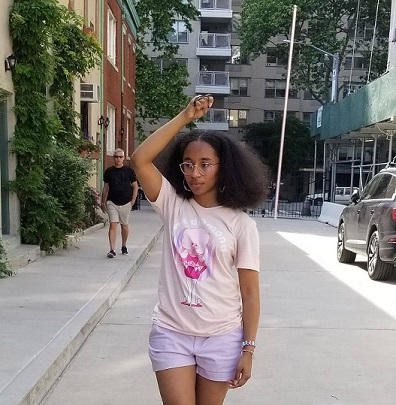
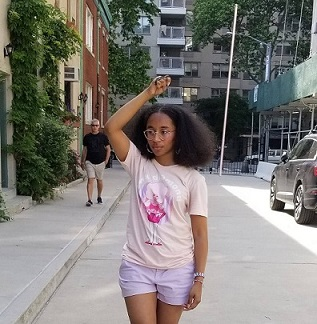
Changes to picture location in all files

diff --git a/css/styles.css b/css/styles.css
@@ -37,8 +37,7 @@ ul {
 	padding-left: 0px;
 }
 
-a {color: #5092C9;
-	margin-bottom: 30px;}
+a {color: #5092C9;}
 
 a:hover {color: #B18FCF;
 	padding: 5px;}

diff --git a/student1.php b/student1.php
@@ -4,12 +4,13 @@
 <header>
 	<div class="header">
 		<h1 class="studentName">Jonathan Roman</h1>
-		<img src="images/jonathan.jpg" alt="jonathan" class="photo">
 	</div>
 </header>
 <?php include "inc/navigation.inc"; ?>
 
 	<div class="contentBlock">
+		
+		<figure><img src="images/jonathan.jpg" alt="jonathan" class="photo"></figure>
 		<h2>Academics</h2>
 		<p>As far as my academic career used to be, I was very into biology in high school. I would attend science competitions and fairs to present research I had begun through a special science research program in my school (which I credit my acceptance to the University of Rochester to). Since I was still a teenager, I had not really explored many fields up to this point and although the idea of biology excited me, I do not believe I was truly passionate about it. I had always been into video games and technology since I was old enough to operate a screen, so it seemed logical that I would like computer science, but my school did not offer anything in the field, so I entered the University of Rochester with a major in biology. Once I arrived at college, I continued with my track for a year or two before I began taking classes in computer science and instantly fell in love with it. I did not realize how much I would truly enjoy the field but I am extremely happy I will end up being able to complete my major within the 4 years even with some extra classes from other fields under my belt.</p>
 	</div>

diff --git a/student2.php b/student2.php
@@ -4,12 +4,14 @@
 <header>
 	<div class="header">
 		<h1 class="studentName">Victoria Bongard</h1>
-		<img src="images/victoria.jpg" alt="victoria" class="photo">
+		
 	</div>
 </header>
 <?php include "inc/navigation.inc"; ?>
-<h2>Study Spaces</h2>
+
 	<div class="contentBlock">
+		<figure><img src="images/victoria.jpg" alt="victoria" class="photo"></figure>
+		<h2>Study Spaces</h2>
 		<p>In terms of my academics at the University of Rochester, I have found my study places to be among that which I consider most important to my academic success. I tend to prefer mostly quiet, cozy places to study. In general, I find a loud and crowded space to be too distracting when trying to accomplish work. My favorite study space on campus is Rettner because of the natural lighting, bright colors, and generally quiet atmosphere. It is also very close to much of campus, which is a big bonus.</p>
 		<p>While the new iZone has not been open for long, so far I have found it to be a really nice study area. I also enjoy the Reference Stacks in Rush Rhees, Robinson Library, and the Art and Music Library since both are warm and quiet. I find Carlson, the Stacks, Q and I, and the first floor of Morey to be less conducive to studying, though they are still acceptable places. At the bottom of the totem pole I place Gleason because it is too loud and distracting for me to possibly be productive.</p>
 	</div>

diff --git a/student3.php b/student3.php
@@ -4,12 +4,12 @@
 <header>
 	<div class="header">
 		<h1 class="studentName">Jayda Medina</h1>
-		<img src="images/jayda.jpg" alt="jayda" class="photo">
-	</div>
+			</div>
 </header>
 <?php include "inc/navigation.inc"; ?>	
 
 	<div class="contentBlock">
+		<figure><img src="images/jayda.jpg" alt="jayda" class="photo"></figure>
 		<h2>Classes</h2>
 		<p>During my first semester at the University of Rochester, I took Beginning American Sign Language, CSC170, CSC161, and MTH140. That semester I made Dean’s List and was invited to join the National Society of Collegiate Scholars. The following semester I took CSC171, MTH150, Beginning American Sign Language II, and WRT105 RAGE!. My humanities cluster is American Sign Language and I’m still deciding my Social Science cluster. I am currently deciding between Gender and Women’s studies and Anthropology. This semester I’m taking Intro to Medical Anthropology, which can be used towards either cluster. I’m doing a human and computer interactions track, with the goal of getting a Bachelor of Arts for Computer Science.</p>
 	</div>

diff --git a/index.php b/index.php
@@ -19,6 +19,7 @@
 		<h2>Victoria Bongard</h2>
 		<figure><img src="images/victoria.jpg" alt="victoria" class="photo"></figure>
 		<p>My name is Victoria Bongard and I am a junior attending the University of Rochester. I am double majoring in Film and Media Studies and Digital Media Studies with a minor in Computer Science. I was born in Durham, North Carolina and then spent a year of my infancy in New York City before moving to Blacksburg, Virginia for most of the remainder of my childhood. My family moved to Bloomington, Indiana during the summer before I started high school. Two months after moving I began attending Chatham Hall, an all-girls boarding school located in rural southern Virginia. While my family has lived in Indiana for the past 6 years, I have only ever spent breaks there. Thus, I consider myself to be from Virginia and occasionally Indiana, too.</p>
+
 		<a href="http://csc174.org/assignment02/vbongard/assignment02/home.php">Victoria's Assignment02</a>
 	</div>
 
